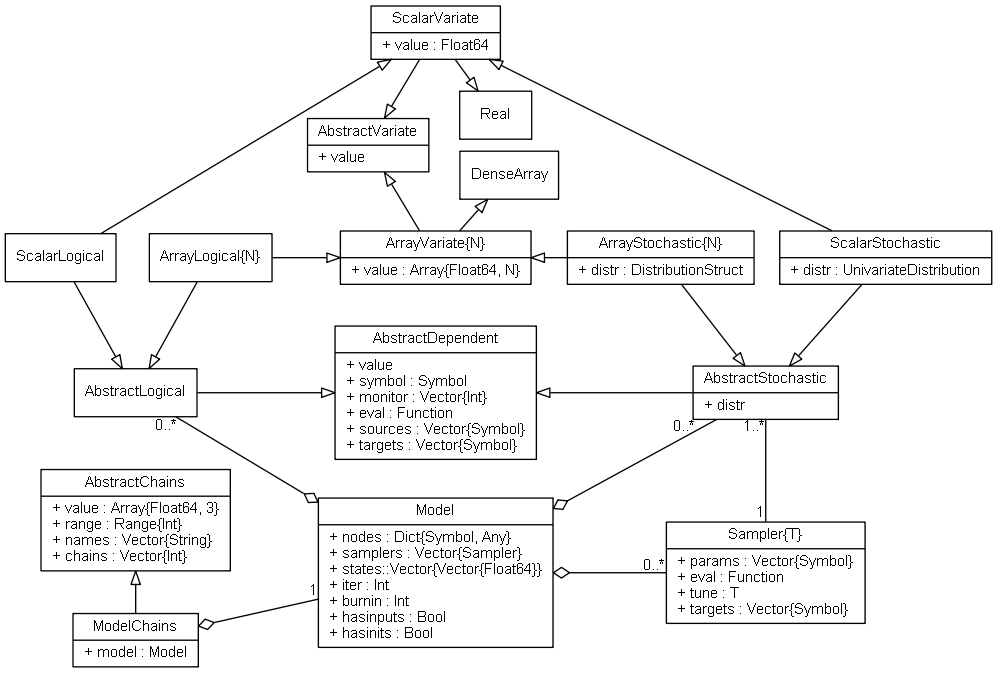
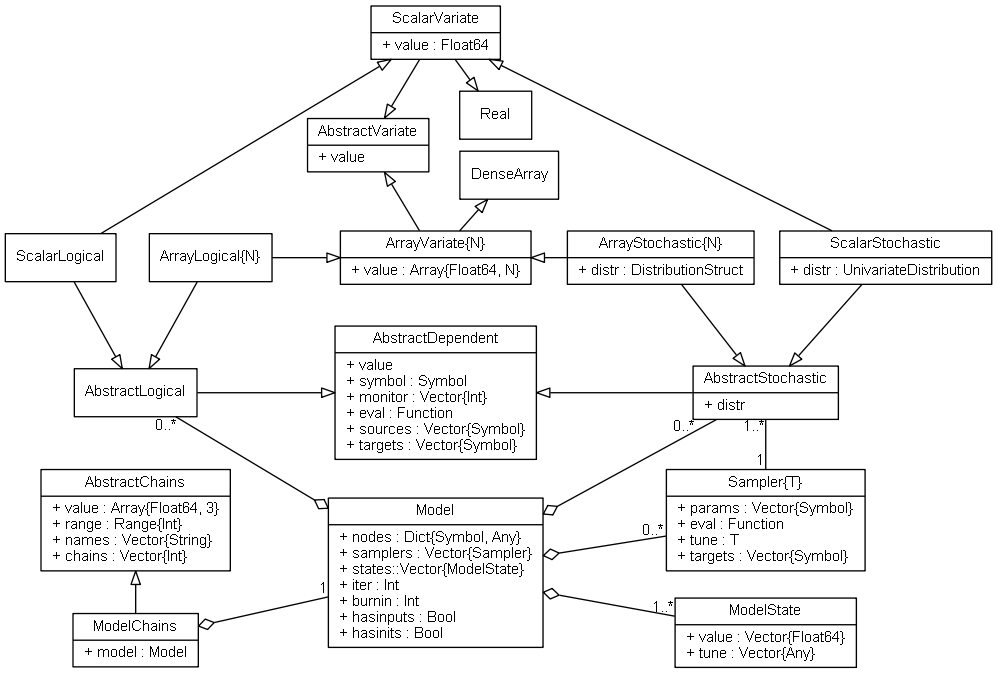
Implement ModelState type.

Changed region(s): [[0.6219, 0.6865, 0.8706, 0.9985], [0.3109, 0.7177, 0.5908, 0.9673], [0.6219, 0.7801, 0.653, 0.8113]]

diff --git a/doc/tutorial.rst b/doc/tutorial.rst
@@ -538,16 +538,16 @@ Convergence diagnostics or posterior summaries may indicate that additional draw
     Samples per chain = 7375
 
     Empirical Posterior Estimates:
-               Mean        SD       Naive SE      MCSE        ESS
-    beta[1] 0.60579250 1.19097512 0.008006838 0.0149546903 6342.3547
-    beta[2] 0.79929997 0.35990518 0.002419616 0.0042354187 7220.7698
-         s2 1.32225331 2.18741263 0.014705814 0.0905492267  583.5686
+               Mean        SD      Naive SE       MCSE        ESS
+    beta[1] 0.59655228 1.1225920 0.0075471034 0.014053505 6380.79199
+    beta[2] 0.80144540 0.3395731 0.0022829250 0.003954871 7372.28048
+         s2 1.18366563 1.8163096 0.0122109158 0.070481708  664.08995
 
     Quantiles:
-                2.5%        25.0%       50.0%     75.0%     97.5%
-    beta[1] -1.818876386 0.029689545 0.60013562 1.1925512 2.9859635
-    beta[2]  0.084107991 0.624728184 0.79995993 0.9719430 1.5222840
-         s2  0.172112241 0.387163110 0.66654373 1.2770694 7.4289094
+                2.5%       25.0%       50.0%     75.0%     97.5%
+    beta[1] -1.70512374 0.031582137 0.58989089 1.1783924 2.8253668
+    beta[2]  0.12399073 0.630638800 0.80358526 0.9703569 1.4939817
+         s2  0.17075261 0.382963160 0.65372440 1.2210168 5.7449800
 
 
 .. _section-Line-Plotting:

diff --git a/doc/mcmc/model.rst b/doc/mcmc/model.rst
@@ -17,7 +17,7 @@ Fields
 
 * ``nodes::Dict{Symbol, Any}`` : all input, logical, and stochastic model nodes.
 * ``samplers::Vector{Sampler}`` : sampling functions for updating blocks of stochastic nodes.
-* ``states::Vector{Vector{Float64}}`` : states of chains at the end of an MCMC run in a possible series of runs.
+* ``states::Vector{ModelState}`` : states of chains at the end of an MCMC run in a possible series of runs, where ``ModelState`` has fields ``value::Vector{Float64}`` and ``tune::Vector{Any}`` to store the last values of sampled nodes and block-sampler tuning parameters, respectively.
 * ``iter::Int`` : current MCMC draw from the target distribution.
 * ``burnin::Int`` : number of initial draws to discard as a burn-in sequence to allow for convergence.
 * ``hasinputs::Bool`` : whether values have been assigned to input nodes.
